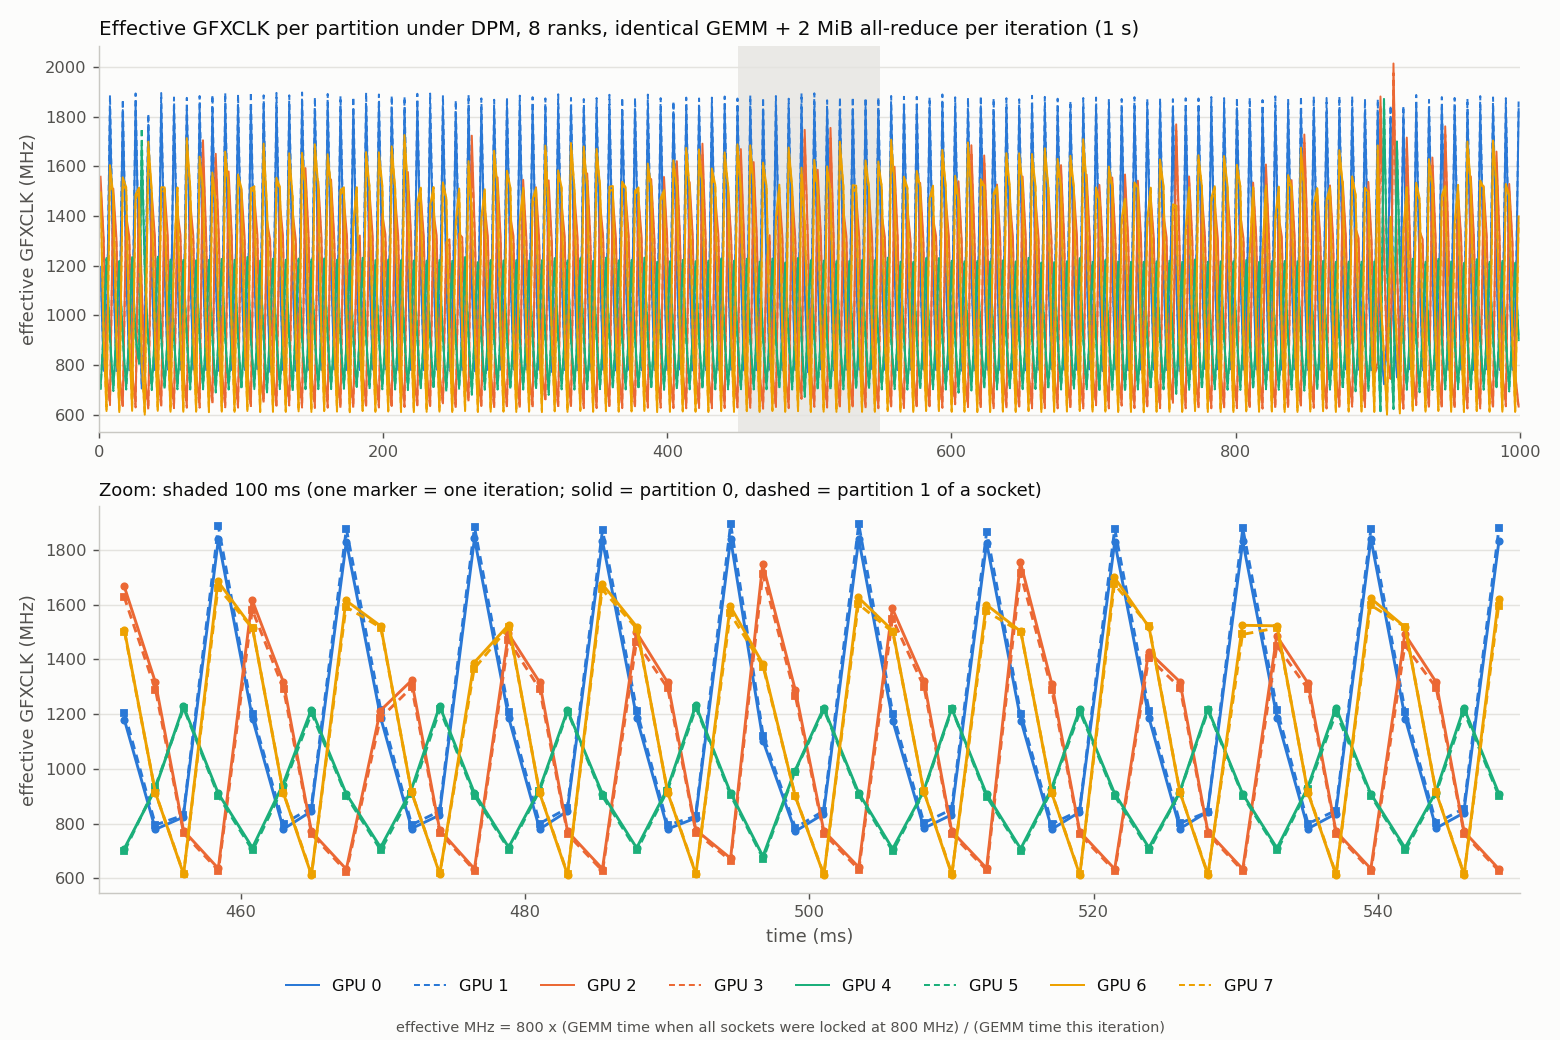
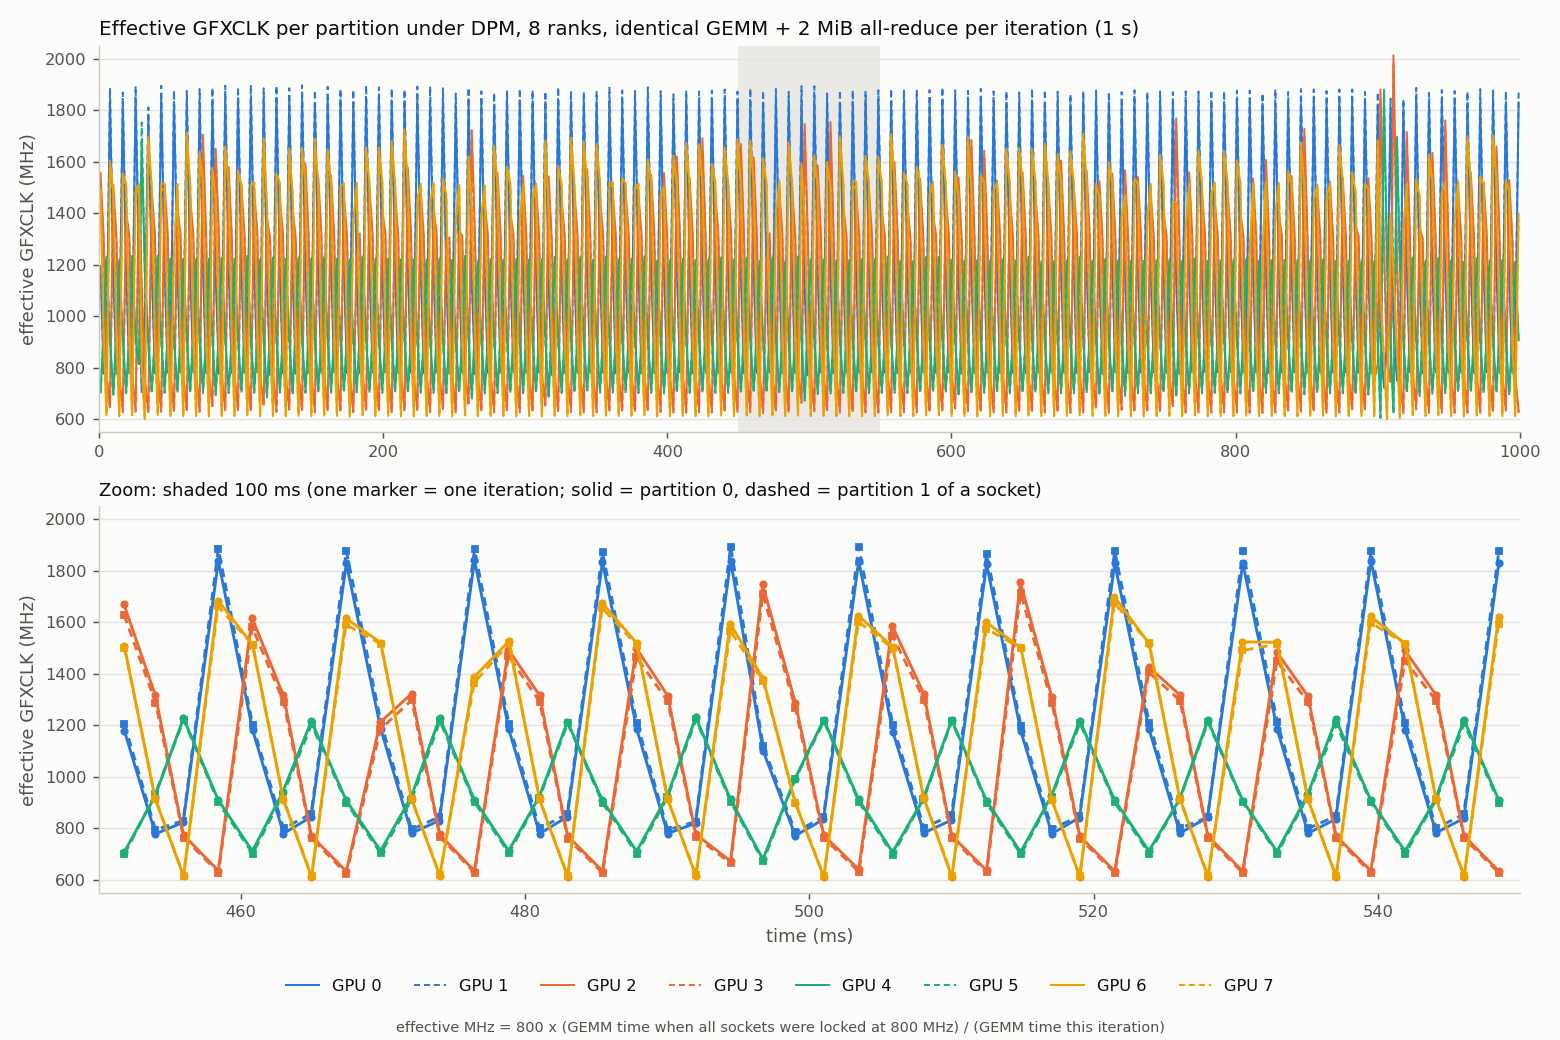
proxy-moe: ROCm issue adds locked-1000 MHz control timeline
- same calibration and y-range as the DPM plot: sawtooth gone, skew 611 -> 23 us, AR wait 93% -> 28%
- plot_clk_timeline.py: fixed y-range and title label for side-by-side comparison

diff --git a/proxy-moe/scripts/plot_clk_timeline.py b/proxy-moe/scripts/plot_clk_timeline.py
@@ -6,6 +6,7 @@ import json, sys, statistics as st
 import matplotlib; matplotlib.use("Agg"); import matplotlib.pyplot as plt
 mbj, lock, base, out = sys.argv[1], float(sys.argv[2]), [float(x) for x in sys.argv[3].split(",")], sys.argv[4]
 win = float(sys.argv[5]) if len(sys.argv) > 5 else 1.0; zoom = float(sys.argv[6]) if len(sys.argv) > 6 else 100.0
+label = sys.argv[7] if len(sys.argv) > 7 else "under DPM"; YLIM = (550, 2050)
 m = json.load(open(mbj)); gpus = m["gpus"]
 SURF, INK, INK2, GRID = "#fcfcfb", "#0b0b0b", "#52514e", "#e4e3df"
 HUE = ["#2a78d6", "#eb6834", "#1baf7a", "#eda100"]          # socket 0..3, reference categorical order
@@ -19,9 +20,9 @@ for ax, (lo, hi), lw, ms in ((axes[0], (0, win * 1e3), 1.1, 0), (axes[1], (win *
         pts = [((t - a) * 1e3, lock * base[g] / d) for t, d in zip(m["start"][k], m["compute_us"][k]) if lo <= (t - a) * 1e3 <= hi]
         ax.plot([p[0] for p in pts], [p[1] for p in pts], color=HUE[g // 2], lw=lw, ls="-" if g % 2 == 0 else (0, (3, 2)),
                 marker=("o" if g % 2 == 0 else "s") if ms else None, ms=ms, label=f"GPU {g}")
-    ax.set_xlim(lo, hi); ax.set_ylabel("effective GFXCLK (MHz)", color=INK2)
+    ax.set_xlim(lo, hi); ax.set_ylim(*YLIM); ax.set_ylabel("effective GFXCLK (MHz)", color=INK2)
 axes[0].axvspan(win * 500 - zoom / 2, win * 500 + zoom / 2, color="#d9d8d3", alpha=0.5, lw=0)
-axes[0].set_title(f"Effective GFXCLK per partition under DPM, 8 ranks, identical GEMM + 2 MiB all-reduce per iteration ({win:.0f} s)",
+axes[0].set_title(f"Effective GFXCLK per partition {label}, 8 ranks, identical GEMM + 2 MiB all-reduce per iteration ({win:.0f} s)",
                   color=INK, fontsize=11, loc="left")
 axes[1].set_title(f"Zoom: shaded {zoom:.0f} ms (one marker = one iteration; solid = partition 0, dashed = partition 1 of a socket)",
                   color=INK, fontsize=10, loc="left")

diff --git a/proxy-moe/ROCM_ISSUE_dpm_socket_desync_1029.md b/proxy-moe/ROCM_ISSUE_dpm_socket_desync_1029.md
@@ -93,6 +93,18 @@ only +-10 MHz, while the GEMM time swings 2x.
 | 2 | 4/5 | 939 | 711 | 1222 |
 | 3 | 6/7 | 1151 | 614 | 1636 |
 
+Control: the same run with all four sockets locked at GFXCLK 1000 MHz (same calibration, same y-range). The sawtooth is gone,
+all eight partitions stay at ~980-1030 MHz, skew max-mean drops from 611 us (40%) to 23 us (1.6%), and the AR wait share drops
+from 93% to 28%. Locked at 1000 MHz, the 800 MHz calibration reads ~1000 MHz, which confirms the time ~ 1/clock conversion.
+(GPU 1 reads ~30 MHz high throughout; its calibration time is the largest of the eight.)
+
+![effective GFXCLK per partition, locked 1000 MHz](img/rocm_issue_lock1000_timeline_1029.png)
+
+Sampling: one point per iteration (GEMM + all-reduce), so the points are not evenly spaced. Points are a median 2.22 ms apart under
+DPM and 1.56 ms apart locked. Each run records 6000 iterations after 300 warm-up iterations: 13.3 s under DPM, 9.4 s locked. The
+plots show the middle 1 s and a 100 ms zoom. Each point is the average speed over one GEMM (~1.3-1.5 ms), so faster changes are
+not visible.
+
 To reproduce: run `mb_skew.py --dump out.json` to get per-iteration timestamps, then
 [`scripts/plot_clk_timeline.py`](scripts/plot_clk_timeline.py) `out.json 800 <per-rank locked p50 us> out.png`.
 

diff --git a/proxy-moe/OPT_h13-17_1029.md b/proxy-moe/OPT_h13-17_1029.md
@@ -214,3 +214,6 @@ this. Instead `mb_skew.py --dump` gives per-iteration GEMM times, converted to a
 (`scripts/plot_clk_timeline.py`). Under DPM every socket runs a 9.0 ms sawtooth, out of phase across sockets, and the partitions of
 one socket overlap. Mean / p10 / p90 effective MHz: s0 1154/774/1835, s1 1075/630/1598, s2 939/711/1222, s3 1151/614/1636.
 Plot `img/rocm_issue_dpm_timeline_1029.png` (added to the ROCm issue); data `/shared_nfs/kk/results/proxy_12l/clktimeline_mb_h13-17_1029/`.
+Control plot, all sockets locked at 1000 MHz (`img/rocm_issue_lock1000_timeline_1029.png`, `mb_lock1000.json`): flat at ~980-1030
+effective MHz, max-mean 23 us (1.6%), wait 28%. This also validates the conversion. Points come one per iteration (DPM median
+2.22 ms apart, locked 1.56 ms); 6000 iterations = 13.3 s DPM / 9.4 s locked.
